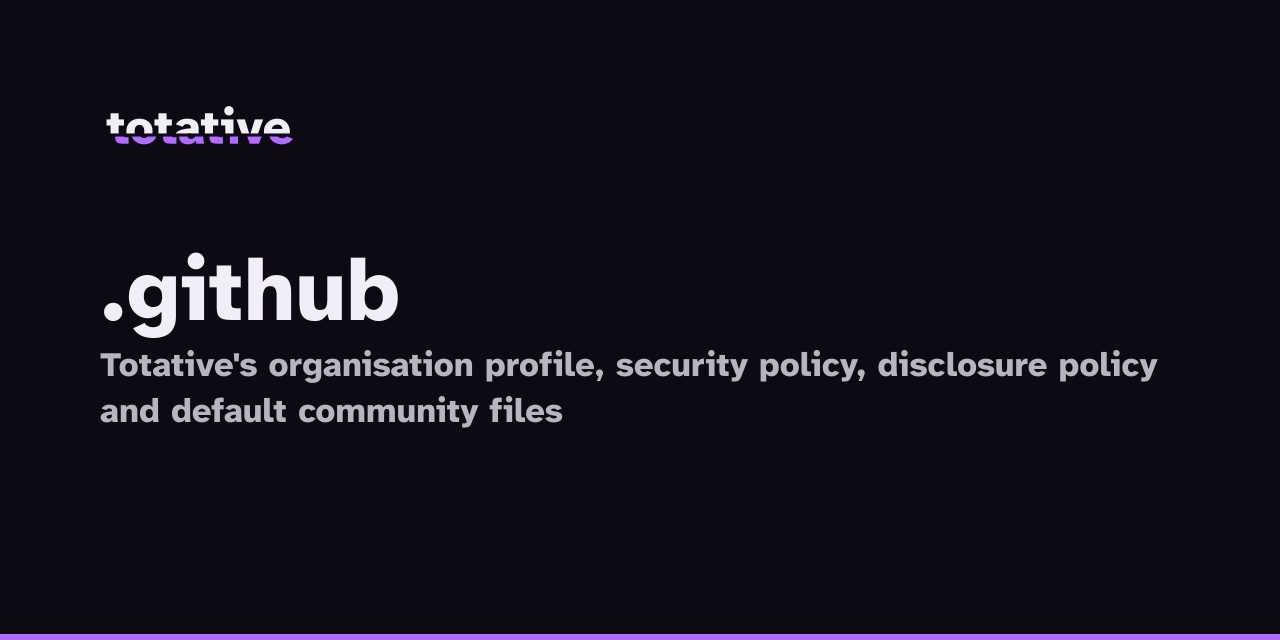
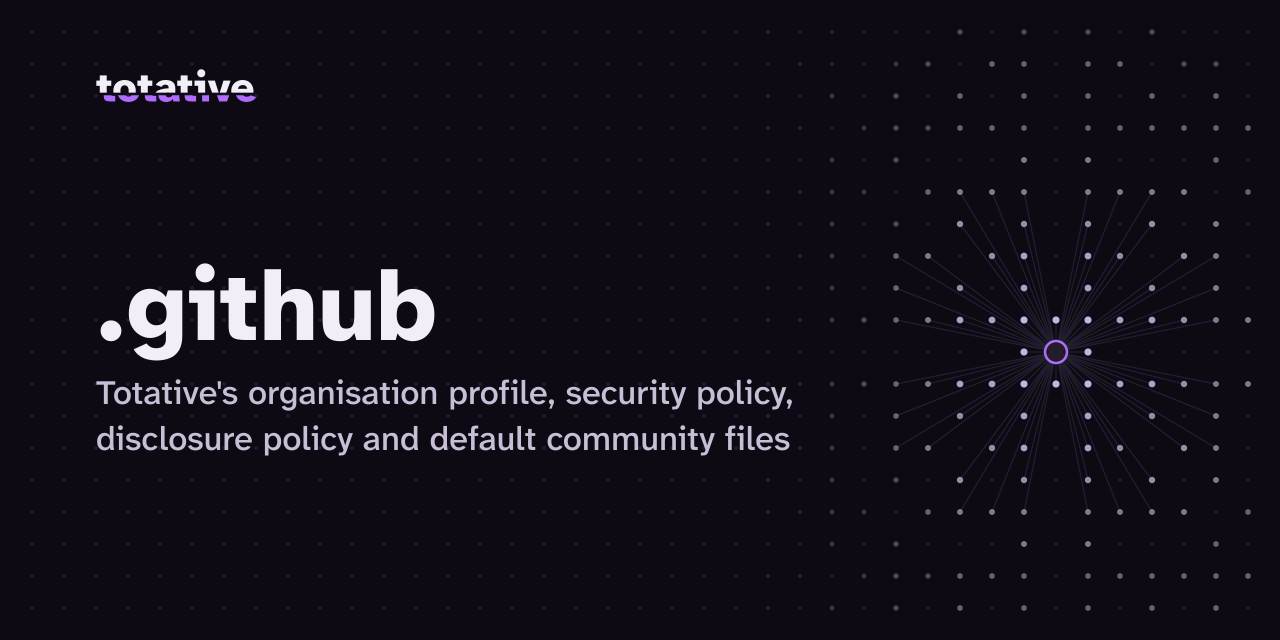
feat(assets): draw the coprime lattice on the social preview cards
PNGs are written without date/time chunks so a rebuild is byte-identical; --variant B keeps the bottom-band layout reachable.

Changed region(s): [[0.0625, 0.375, 0.9062, 0.7188], [0.0, 0.9688, 1.0, 1.0], [0.0625, 0.125, 0.25, 0.25]]

diff --git a/scripts/build-logos.py b/scripts/build-logos.py
@@ -1,13 +1,17 @@
 """Regenerate the Totative logos in profile/assets/.
 
-Run: uv run --with fonttools --with uharfbuzz python scripts/build-logos.py
+Run: uv run --with fonttools --with uharfbuzz python scripts/build-logos.py [--variant B]
 
 The mark is a capital T cut on a slant, its lower piece in the accent and shifted
 right; the wordmark is the name split the same way along one horizontal line.
+The social cards carry the site's lattice: dots whose offset from a ringed viewpoint
+is coprime, i.e. in line of sight, light up.
 """
 
+import argparse
 import io
 import subprocess
+from math import gcd
 from pathlib import Path
 
 import uharfbuzz as hb
@@ -20,10 +24,18 @@ ROOT = Path(__file__).resolve().parent.parent
 OUT = ROOT / "profile" / "assets"
 FAMILY = "Atkinson Hyperlegible Next"
 WEIGHT = 800
+BODY_WEIGHT = 500
 
 THEMES = {
     "light": {"ink": "#140F1F", "accent": "#7B2FD0", "bg": "#F5F2FA"},
-    "dark": {"ink": "#F2EEF8", "accent": "#B26BFF", "bg": "#0D0A14"},
+    "dark": {
+        "ink": "#F2EEF8",
+        "accent": "#B26BFF",
+        "bg": "#0D0A14",
+        "soft": "#C8BFD6",
+        "lit": "#C9B2E6",
+        "dim": "#221A30",
+    },
 }
 
 REPOS = (
@@ -50,8 +62,8 @@ REPOS = (
 )
 
 
-def load_font() -> tuple[TTFont, bytes]:
-    """Pin the installed variable font at WEIGHT; returns the static font and its bytes for HarfBuzz."""
+def load_font(weight: int) -> tuple[TTFont, bytes]:
+    """Pin the installed variable font at `weight`; returns the static font and its bytes for HarfBuzz."""
     path = subprocess.run(
         ["fc-match", "-f", "%{file}", FAMILY],
         check=True,
@@ -61,26 +73,33 @@ def load_font() -> tuple[TTFont, bytes]:
     tt = TTFont(path)
     if tt["name"].getBestFamilyName() != FAMILY:
         raise SystemExit(f"{FAMILY} is not installed (fc-match gave {path})")
-    static = instancer.instantiateVariableFont(tt, {"wght": WEIGHT})
+    static = instancer.instantiateVariableFont(tt, {"wght": weight})
     data = io.BytesIO()
     static.save(data)
     return static, data.getvalue()
 
 
-FONT, FONT_BYTES = load_font()
+HEAVY = load_font(WEIGHT)
+BODY = load_font(BODY_WEIGHT)
+FONT = HEAVY[0]
 UPM = FONT["head"].unitsPerEm
 
 
 def text_path(
-    text: str, size: float, x: float, base: float, fill: str
+    text: str,
+    size: float,
+    x: float,
+    base: float,
+    fill: str,
+    font: tuple[TTFont, bytes] = HEAVY,
 ) -> tuple[str, float, float]:
     """Shaped outlines; returns (svg, advance width, height of the tallest glyph above the baseline)."""
-    hb_font = hb.Font(hb.Face(hb.Blob(FONT_BYTES)))
+    hb_font = hb.Font(hb.Face(hb.Blob(font[1])))
     buf = hb.Buffer()
     buf.add_str(text)
     buf.guess_segment_properties()
     hb.shape(hb_font, buf, {"kern": True})
-    glyphs, order = FONT.getGlyphSet(), FONT.getGlyphOrder()
+    glyphs, order = font[0].getGlyphSet(), font[0].getGlyphOrder()
     scale = size / UPM
     pen_x, top, paths = 0, 0.0, []
     for info, pos in zip(buf.glyph_infos, buf.glyph_positions):
@@ -144,29 +163,34 @@ def wordmark(theme: dict[str, str]) -> tuple[str, float, float]:
     return body, width + shift + 2 * pad, base + 2 * pad
 
 
-def wrap(text: str, size: float, max_width: float, max_lines: int = 2) -> list[str]:
+def wrap(
+    text: str,
+    size: float,
+    max_width: float,
+    max_lines: int,
+    font: tuple[TTFont, bytes] = BODY,
+) -> list[str]:
     """Greedy word wrap by shaped advance width; exits if a word or the whole text cannot fit."""
     words = text.split()
     if not words:
         raise SystemExit("empty description")
+
+    def width(s: str) -> float:
+        w = text_path(s, size, 0, 0, "", font)[1]
+        if " " not in s and w > max_width:
+            raise SystemExit(f"{s!r} is {w:.0f}px wide, max {max_width:.0f}px")
+        return w
+
     lines: list[str] = []
     current = words[0]
-    _, width, _ = text_path(current, size, 0, 0, "")
-    if width > max_width:
-        raise SystemExit(f"{current!r} is {width:.0f}px wide, max {max_width:.0f}px")
+    width(current)
     for word in words[1:]:
-        candidate = f"{current} {word}"
-        _, width, _ = text_path(candidate, size, 0, 0, "")
-        if width <= max_width:
-            current = candidate
+        if width(f"{current} {word}") <= max_width:
+            current = f"{current} {word}"
             continue
         lines.append(current)
         current = word
-        _, width, _ = text_path(current, size, 0, 0, "")
-        if width > max_width:
-            raise SystemExit(
-                f"{current!r} is {width:.0f}px wide, max {max_width:.0f}px"
-            )
+        width(current)
     lines.append(current)
     if len(lines) > max_lines:
         raise SystemExit(
@@ -175,26 +199,102 @@ def wrap(text: str, size: float, max_width: float, max_lines: int = 2) -> list[s
     return lines
 
 
-def social_card(repo: str, description: str, theme: dict[str, str]) -> str:
-    """1280x640 Open Graph card: wordmark, name, wrapped description, accent bar."""
-    margin, col, title_size, desc_size = 100, 1080, 88, 34
+CELL = 32
+CARD = (1280, 640)
+
+# Both variants share the type and grid; they differ in where the lattice sits and how much of it is lit.
+# eye: grid cell of the ringed viewpoint; rows: grid rows that carry dots; falloff: squared cell
+# distance at which a lit dot is at 60%; fade_x: x where lit dots start to show (fully lit 240px on);
+# col: text column width; title_base and desc_* place the text block.
+VARIANTS = {
+    "A": {
+        "eye": (33, 11),
+        "rows": (1, 19),
+        "falloff": 40,
+        "reach": 6,
+        "fade_x": 720,
+        "col": 704,
+        "title_base": 340,
+        "desc_size": 34,
+        "desc_lead": 46,
+        "desc_lines": 3,
+    },
+    "B": {
+        "eye": (33, 16),
+        "rows": (14, 19),
+        "falloff": 24,
+        "reach": 4,
+        "fade_x": 0,
+        "col": 1088,
+        "title_base": 266,
+        "desc_size": 36,
+        "desc_lead": 50,
+        "desc_lines": 2,
+    },
+}
+
+
+def lattice(theme: dict[str, str], v: dict) -> str:
+    """Dot field on the CELL grid: dots in line of sight from the eye (coprime offsets) are lit,
+    dimming with distance; rays join the eye to the nearest of them, as on totative.dev."""
+    (ex, ey), (r0, r1) = v["eye"], v["rows"]
+    dim, lit, rays = [], {}, []
+    for gy in range(r0, r1 + 1):
+        for gx in range(1, CARD[0] // CELL):
+            x, y = gx * CELL, gy * CELL
+            dx, dy = gx - ex, gy - ey
+            level = 0.0
+            if gcd(abs(dx), abs(dy)) == 1:
+                fade = min(1.0, max(0.0, (x - v["fade_x"]) / 240))
+                level = (0.2 + 0.8 / (1 + (dx * dx + dy * dy) / v["falloff"])) * fade
+                if dx * dx + dy * dy <= v["reach"] ** 2:
+                    rays.append(f"M{ex * CELL} {ey * CELL}L{x} {y}")
+            bucket = round(level * 8)
+            if bucket == 0:
+                dim.append(f'<circle cx="{x}" cy="{y}" r="2"/>')
+            else:
+                lit.setdefault(bucket, []).append(
+                    f'<circle cx="{x}" cy="{y}" r="{2 + bucket / 8 * 1.6:.2f}"/>'
+                )
+    return (
+        f'<path d="{"".join(rays)}" stroke="{theme["lit"]}" stroke-width="1.25" opacity="0.12"/>'
+        f'<g fill="{theme["dim"]}">{"".join(dim)}</g>'
+        + "".join(
+            f'<g fill="{theme["lit"]}" opacity="{b / 8:.3f}">{"".join(c)}</g>'
+            for b, c in sorted(lit.items())
+        )
+        + f'<circle cx="{ex * CELL}" cy="{ey * CELL}" r="11" fill="none" stroke="{theme["accent"]}" stroke-width="2.5"/>'
+    )
+
+
+def social_card(
+    repo: str, description: str, theme: dict[str, str], variant: str
+) -> str:
+    """1280x640 Open Graph card: lattice, wordmark, repo name, wrapped description."""
+    v = VARIANTS[variant]
+    margin, col, title_size = 3 * CELL, v["col"], 100
     wm_body, _, wm_h = wordmark(theme)
-    wm_scale = 56 / wm_h
-    wm = f'<g transform="translate({margin} {margin}) scale({wm_scale:.5f})">{wm_body}</g>'
-    title, title_w, _ = text_path(repo, title_size, margin, 320, theme["ink"])
+    wm_scale = 48 / wm_h
+    wm = f'<g transform="translate({margin - 8 * wm_scale:.2f} {2 * CELL}) scale({wm_scale:.5f})">{wm_body}</g>'
+    title, title_w, _ = text_path(
+        repo, title_size, margin, v["title_base"], theme["ink"]
+    )
     if title_w > col:
         raise SystemExit(f"{repo}: name is {title_w:.0f}px wide, max {col}px")
-    desc_parts = []
-    for i, line in enumerate(wrap(description, desc_size, col)):
-        g, line_w, _ = text_path(line, desc_size, margin, 376 + i * 46, theme["ink"])
-        if line_w > col:
-            raise SystemExit(
-                f"{repo}: line {i + 1} is {line_w:.0f}px wide, max {col}px"
-            )
-        desc_parts.append(g)
-    desc = f'<g opacity="0.75">{"".join(desc_parts)}</g>'
-    bar = f'<rect x="0" y="634" width="1280" height="6" fill="{theme["accent"]}"/>'
-    return svg((1280, 640), wm + title + desc + bar, (1280, 640), bg=theme["bg"])
+    desc = "".join(
+        text_path(
+            line,
+            v["desc_size"],
+            margin,
+            v["title_base"] + 64 + i * v["desc_lead"],
+            theme["soft"],
+            BODY,
+        )[0]
+        for i, line in enumerate(
+            wrap(description, v["desc_size"], col, v["desc_lines"])
+        )
+    )
+    return svg(CARD, lattice(theme, v) + wm + title + desc, CARD, bg=theme["bg"])
 
 
 def svg(
@@ -212,7 +312,24 @@ def svg(
     )
 
 
-def build() -> None:
+def png(src: Path | str, dest: Path, svg_text: str | None = None) -> None:
+    """Rasterise at 96 dpi, without the timestamp chunks that would make every rebuild a diff."""
+    subprocess.run(
+        [
+            "magick",
+            "-density",
+            "96",
+            src,
+            "-define",
+            "png:exclude-chunks=date,time",
+            dest,
+        ],
+        input=svg_text.encode() if svg_text else None,
+        check=True,
+    )
+
+
+def build(variant: str) -> None:
     OUT.mkdir(parents=True, exist_ok=True)
     for name, theme in THEMES.items():
         (OUT / f"totative-mark-{name}.svg").write_text(
@@ -225,25 +342,20 @@ def build() -> None:
     (OUT / "totative-avatar.svg").write_text(
         svg((200, 200), mark(dark), (512, 512), bg=dark["bg"])
     )
-    subprocess.run(
-        [
-            "magick",
-            "-density",
-            "96",
-            OUT / "totative-avatar.svg",
-            OUT / "totative-avatar.png",
-        ],
-        check=True,
-    )
+    png(OUT / "totative-avatar.svg", OUT / "totative-avatar.png")
     social = OUT / "social"
     social.mkdir(parents=True, exist_ok=True)
     for repo, description in REPOS:
-        subprocess.run(
-            ["magick", "-density", "96", "svg:-", social / f"{repo}.png"],
-            input=social_card(repo, description, dark).encode(),
-            check=True,
+        png(
+            "svg:-",
+            social / f"{repo}.png",
+            social_card(repo, description, dark, variant),
         )
 
 
 if __name__ == "__main__":
-    build()
+    parser = argparse.ArgumentParser(description=__doc__.splitlines()[0])
+    parser.add_argument(
+        "--variant", choices=sorted(VARIANTS), default="A", help="social card layout"
+    )
+    build(parser.parse_args().variant)
